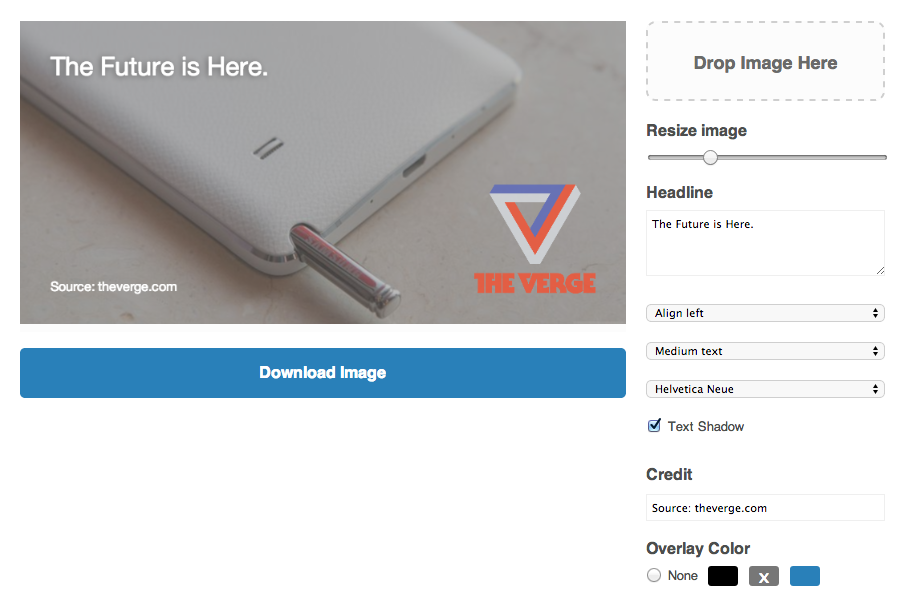
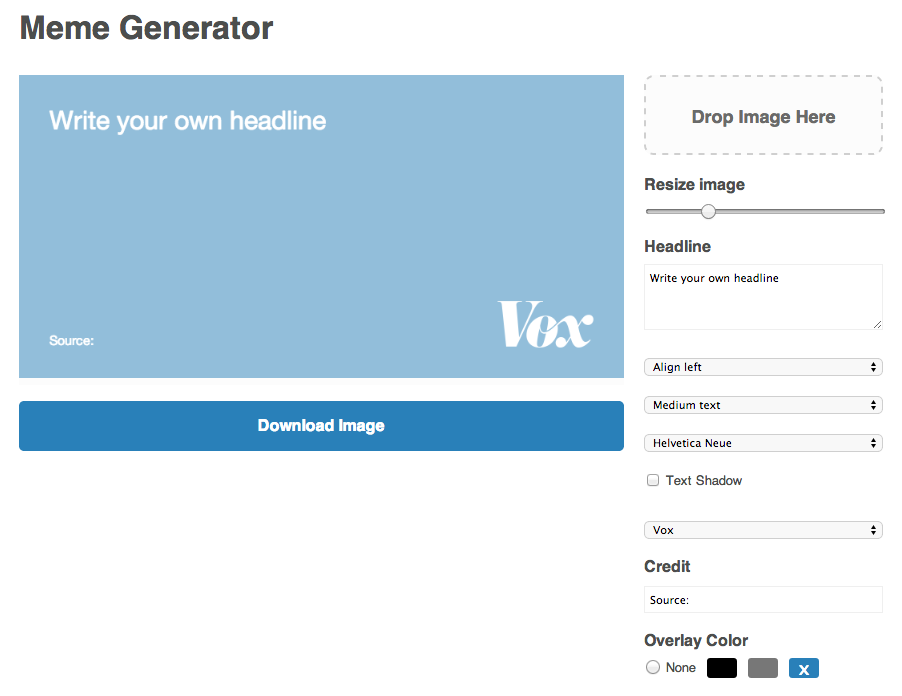
Adding version 2.0 settings and docs.

diff --git a/source/stylesheets/_vars.scss b/source/stylesheets/_vars.scss
@@ -1,6 +1,6 @@
 // colors
 $default-text-color     : #4C4E4D;
-$theme-color            : #d32027;
+$theme-color            : #2980b9;
 
 // breakpoints
 $break_xsmall         : 400px;

diff --git a/source/stylesheets/modules/_m-editor.scss b/source/stylesheets/modules/_m-editor.scss
@@ -36,7 +36,8 @@ $m: '.m-editor';
   .text-align,
   .font-size,
   .font-family,
-  .text-shadow {
+  .text-shadow,
+  .watermark {
     display: none;
   }
 

diff --git a/config.rb b/config.rb
@@ -1,7 +1,5 @@
 # Reload the browser automatically whenever files change
 activate :livereload
-activate :chorus
-activate :directory_indexes
 
 ###
 # Compass

diff --git a/README.md b/README.md
@@ -1,10 +1,19 @@
 # Meme v.2
 
-Contributors: Yuri Victor, Joshua Benton, Matt Montgomery, Ivar Vong, Steve Peters, Flip Stewart. Backbone refactor by Greg MacWilliam.
+Contributors: Yuri Victor, Joshua Benton, Matt Montgomery, Ivar Vong, Steve Peters, Flip Stewart. Version-2 refactor by Greg MacWilliam.
 
-Meme is a generator that Vox Media uses to create social sharing images.
+Meme is a generator that Vox Media uses to create social sharing images. See working version at [http://www.sbnation.com/a/meme](http://www.sbnation.com/a/meme).
 
 ![screenshot](readme.png)
+
+## What's new in version 2.0?
+
+* Refactored into a formal MV* app.
+* Fixed bugs with rendering state and repeat drag-n-drop images.
+* Improved initial rendering with loaded web fonts.
+* Improved cross-origin options: both for base64 images and CORS.
+* Highly (and easily!) customizable editor and theme options.
+* Watermark selector.
 
 ## Install
 
@@ -16,25 +25,24 @@ This will start a local web server running at: `http://localhost:4567/`
 
 ## Customization
 
-Settings and controls can be customized via `source/javascripts/settings.js`. Most menu options can be configured directly through settings.
+### Setup
+
+Settings and controls are customized through `source/javascripts/settings.js.erb`.
+
+### Fonts
+
+Include your own fonts in `stylesheets/_fonts.scss`. Then add your fonts as options into the settings file.
+
+### Editor theme
+
+Set the `$theme-color` variable in `source/stylesheets/_vars.scss`.
 
 ## Examples
 
+* http://www.sbnation.com/a/meme
 * https://twitter.com/voxdotcom/status/481671889094340608
 * https://twitter.com/voxdotcom/status/479228288221470721
 * https://twitter.com/voxdotcom/status/481619042545844225
-
-## Extras
-
-### Add fonts
-
-Include your own fonts in `stylesheets/_fonts.scss`
-
-Fonts are handled with sizes as variables in the javascript and can be [added here](https://github.com/voxmedia/meme/blob/master/source/partials/_javascripts.html.erb#L8)
-
-### Add watermark
-
-Convert an svg to base64 and [add here](https://github.com/voxmedia/meme/blob/master/source/partials/_javascripts.html.erb#L8)
 
 ## Contributing
 
@@ -44,18 +52,3 @@ Convert an svg to base64 and [add here](https://github.com/voxmedia/meme/blob/ma
 4. Push to the branch (`git push origin my-new-feature`)
 5. Create a new Pull Request
 
-## License
-
-Copyright (c) 2014 Vox Media Inc., Yuri Victor, Greg MacWilliam
-
-BSD license
-
-Redistribution and use in source and binary forms, with or without modification, are permitted provided that the following conditions are met:
-
-1. Redistributions of source code must retain the above copyright notice, this list of conditions and the following disclaimer.
-
-2. Redistributions in binary form must reproduce the above copyright notice, this list of conditions and the following disclaimer in the documentation and/or other materials provided with the distribution.
-
-3. Neither the name of the copyright holder nor the names of its contributors may be used to endorse or promote products derived from this software without specific prior written permission.
-
-THIS SOFTWARE IS PROVIDED BY THE COPYRIGHT HOLDERS AND CONTRIBUTORS "AS IS" AND ANY EXPRESS OR IMPLIED WARRANTIES, INCLUDING, BUT NOT LIMITED TO, THE IMPLIED WARRANTIES OF MERCHANTABILITY AND FITNESS FOR A PARTICULAR PURPOSE ARE DISCLAIMED. IN NO EVENT SHALL THE COPYRIGHT HOLDER OR CONTRIBUTORS BE LIABLE FOR ANY DIRECT, INDIRECT, INCIDENTAL, SPECIAL, EXEMPLARY, OR CONSEQUENTIAL DAMAGES (INCLUDING, BUT NOT LIMITED TO, PROCUREMENT OF SUBSTITUTE GOODS OR SERVICES; LOSS OF USE, DATA, OR PROFITS; OR BUSINESS INTERRUPTION) HOWEVER CAUSED AND ON ANY THEORY OF LIABILITY, WHETHER IN CONTRACT, STRICT LIABILITY, OR TORT (INCLUDING NEGLIGENCE OR OTHERWISE) ARISING IN ANY WAY OUT OF THE USE OF THIS SOFTWARE, EVEN IF ADVISED OF THE POSSIBILITY OF SUCH DAMAGE.
